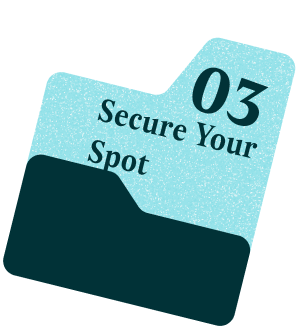
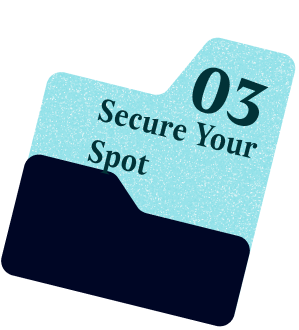
Design has been updated

Changed region(s): [[0.0, 0.4545, 0.8428, 1.0]]

diff --git a/src/components/HowItWorks.jsx b/src/components/HowItWorks.jsx
@@ -62,24 +62,24 @@ const HowItWorks = () => {
   });
 
   return (
-    <div className="min-h-screen py-16 md:py-24 overflow-hidden" style={{
-      background: 'linear-gradient(180deg, #011217 0%, #013237 100%)'
-    }}>
-      <div className="container mx-auto px-4 md:px-6">
+    <div className="min-h-screen py-16 md:py-24 overflow-hidden bg-[#101428] "
+      id="how-it-works"
+    >
+      <div className="container mx-auto px-4 md:px-6 max-w-[1440px]">
         {/* Header Section */}
-        <motion.div 
+        <motion.div
           variants={containerVariants}
           initial="hidden"
           animate="visible"
           className="text-center mb-16 md:mb-24"
         >
-          <motion.h2 
+          <motion.h2
             variants={itemVariants}
             className="font-['FONTSPRING_DEMO-Poly'] text-[36px] md:text-[48px] font-semibold text-white"
           >
             How It Works
           </motion.h2>
-          <motion.p 
+          <motion.p
             variants={itemVariants}
             className="font-['Poly'] text-[18px] md:text-[20px] text-gray-300 max-w-2xl mx-auto"
           >
@@ -93,9 +93,9 @@ const HowItWorks = () => {
           <div className="absolute left-1/2 transform -translate-x-1/2 h-full flex flex-col items-center">
             {/* Top Dot */}
             <div className="w-[5px] h-[5px] rounded-full bg-[#A3E6EB]" />
-            
+
             {/* Dotted Line */}
-            <motion.div 
+            <motion.div
               initial={{ height: 0 }}
               animate={{ height: '100%' }}
               transition={{ duration: 1 }}
@@ -104,13 +104,13 @@ const HowItWorks = () => {
                 background: 'repeating-linear-gradient(to bottom, #A3E6EB 0px, #A3E6EB 8px, transparent 8px, transparent 20px)'
               }}
             />
-            
+
             {/* Bottom Dot */}
             <div className="w-[5px] h-[5px] rounded-full bg-[#A3E6EB]" />
           </div>
 
           {/* Steps List */}
-          <motion.div 
+          <motion.div
             variants={containerVariants}
             initial="hidden"
             animate={inView ? "visible" : "hidden"}
@@ -125,11 +125,11 @@ const HowItWorks = () => {
                   className="relative pt-[70px] lg:pt-[10px]"
                 >
                   {/* Timeline Dot with Number */}
-                  <motion.div 
+                  <motion.div
                     whileHover={{ scale: 1.05 }}
                     whileTap={{ scale: 0.95 }}
-                    className="absolute left-[46.5%] lg:left-[47.5%] xl:left-[48%] transform top-[30px] w-[50px] h-[50px] bg-[#E7FDFF] rounded-full flex items-center justify-center cursor-pointer transition-shadow hover:shadow-lg" 
-                    style={{ 
+                    className="absolute left-[44.5%] sm:left-[46.5%] lg:left-[47.5%] xl:left-[48%] transform top-[30px] w-[50px] h-[50px] bg-[#E7FDFF] rounded-full flex items-center justify-center cursor-pointer transition-shadow hover:shadow-lg"
+                    style={{
                       border: '1px solid #A3E6EB',
                       zIndex: 30
                     }}
@@ -252,6 +252,30 @@ const HowItWorks = () => {
               );
             })}
           </motion.div>
+        </div>
+      </div>
+
+      {/* Make Your Own Event Section */}
+      <div className="bg-[#000625] py-12 mt-20">
+        <div className="flex flex-col md:flex-row items-center max-w-[1440px] mx-auto px-4 md:px-12">
+          <div className="w-full md:w-1/2">
+            <img
+              src="/public/images/how-it-works/5.png"
+              alt="Make your own event"
+              className="w-full max-w-[400px] h-auto mx-auto"
+            />
+          </div>
+          <div className="w-full md:w-1/2 text-center md:text-left mt-8 md:mt-0">
+            <h3 className="text-[28px] md:text-[34px] font-bold text-white mb-3">
+              Make your own Event
+            </h3>
+            <p className="text-[14px] md:text-[16px] text-gray-300 mb-6">
+              From live concerts to NFT drops, bring your events to life with us. Create, promote, and sell tickets your way!
+            </p>
+            <button className="bg-[#00FFA0] text-[#000625] px-8 py-2.5 rounded-full font-medium hover:bg-[#00FFA0]/90 transition-colors">
+              Create Event
+            </button>
+          </div>
         </div>
       </div>
     </div>

diff --git a/src/components/Navbar.jsx b/src/components/Navbar.jsx
@@ -3,13 +3,25 @@ import React, { useState } from 'react';
 import { HiMenu, HiX } from 'react-icons/hi';
 import PropTypes from 'prop-types';
 
-function NavLink({ to, children }) {
+function NavLink({ to, children, onClick }) {
   const location = useLocation();
   const isActive = location.pathname === to;
+
+  const handleClick = (e) => {
+    if (to.startsWith('#')) {
+      e.preventDefault();
+      const element = document.querySelector(to);
+      if (element) {
+        element.scrollIntoView({ behavior: 'smooth' });
+      }
+      if (onClick) onClick();
+    }
+  };
 
   return (
     <Link
       to={to}
+      onClick={handleClick}
       className={`${
         isActive
           ? 'text-[#00FFA0] border-b-2 border-[#00FFA0]'
@@ -24,6 +36,7 @@ function NavLink({ to, children }) {
 NavLink.propTypes = {
   to: PropTypes.string.isRequired,
   children: PropTypes.node.isRequired,
+  onClick: PropTypes.func,
 };
 
 function Navbar() {
@@ -53,6 +66,7 @@ function Navbar() {
           <div className='hidden md:flex items-center space-x-4 lg:space-x-8 whitespace-nowrap max-lg:text-sm'>
             <NavLink to='/'>Home</NavLink>
             <NavLink to='/upcoming-events'>Upcoming Events</NavLink>
+            <NavLink to='#how-it-works'>How it Works</NavLink>
           </div>
           <div className='hidden md:flex space-x-4 lg:space-x-8 items-center whitespace-nowrap max-lg:text-sm'>
             <Link

diff --git a/src/App.jsx b/src/App.jsx
@@ -19,7 +19,7 @@ function App() {
         <Route element={<LandingLayout />}>
           <Route path='/' element={<Home />} />
           <Route path='/upcoming-events' element={<Events />} />
-          <Route path='/about' element={<About />} />
+          <Route path='/how-it-works' element={<About />} />
           <Route path='/contact' element={<Contact />} />
           <Route path='/pricing' element={<Pricing />} />
           <Route path='/help' element={<Help />} />
